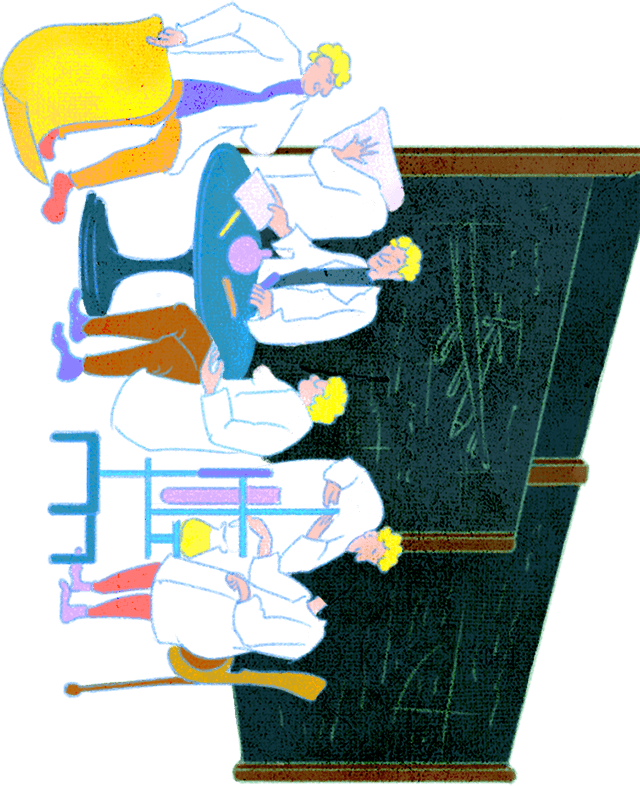
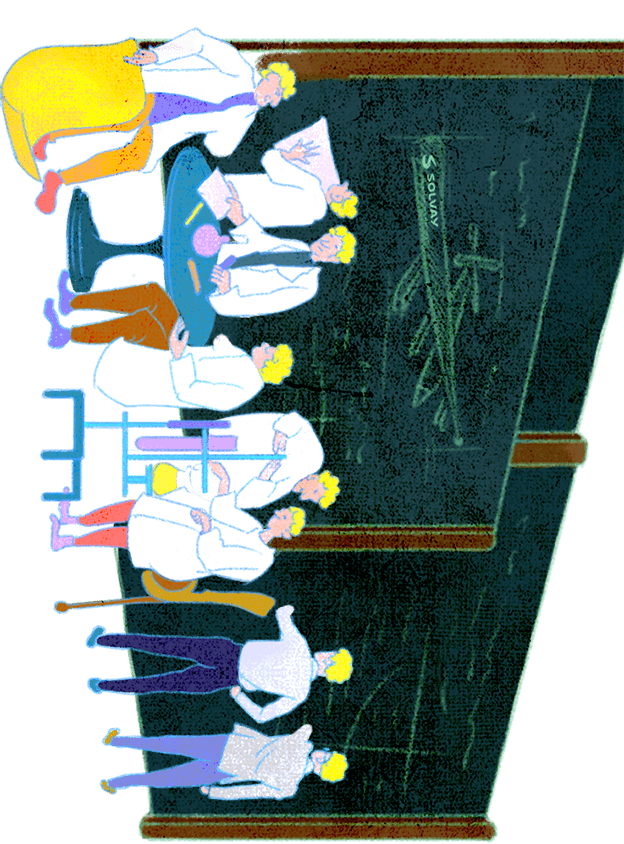
update scene 6

diff --git a/js/main.js b/js/main.js
@@ -45,8 +45,8 @@ var loaderAssets = [
   "scene-6-blackboard.png",
   "scene-6-hand-1.png",
   "scene-6-hand-2.png",
-  "scene-6-head-1.png",
-  "scene-6-head-2.png",
+  "scene-6-hand-3.png",
+  "scene-6-hand-4.png",
   "scene-6-photo.png",
   "scene-7-bg.jpg",
   "scene-7-building.png",
@@ -706,31 +706,31 @@ SOLWAY.Scene[5] = (function() {
   var scene,
     bg,
     blackboard,
-    hand_1,
-    hand_2,
-    head_1,
-    head_2,
     photo,
     hint,
     text_1,
-    text_2;
+    text_2,
+    hand_1,
+    hand_2,
+    hand_3,
+    hand_4;
 
   function init() {
     scene = createContainer({ x: 0, y: stagePosition(5) });
     bg = createSprite("scene-6-bg.jpg", { x: 0, y: 0 });
-    blackboard = createSprite("scene-6-blackboard.png", { x: 0, y: 545 });
-    hand_1 = createSprite("scene-6-hand-1.png", { x: 248, y: 648 });
-    hand_2 = createSprite("scene-6-hand-2.png", { x: 247, y: 880 });
-    head_1 = createSprite("scene-6-head-1.png", { x: 384, y: 726 });
-    head_2 = createSprite("scene-6-head-2.png", { x: 314, y: 1110 });
+    blackboard = createSprite("scene-6-blackboard.png", { x: 15, y: 487 });
+    hand_1 = createSprite("scene-6-hand-1.png", { x: 226, y: 487 + 114 });
+    hand_2 = createSprite("scene-6-hand-2.png", { x: 224, y: 487 + 309 });
+    hand_3 = createSprite("scene-6-hand-3.png", { x: 292, y: 487 + 592 });
+    hand_4 = createSprite("scene-6-hand-4.png", { x: 303, y: 487 + 673 });
     photo = createSprite("scene-6-photo.png", {
       x: 95,
-      y: 3,
+      y: -64,
       interactive: true
     });
-    hint = createHintContainer({ x: 323, y: 58 });
-    text_1 = createSprite("text-6-1.png", { x: 550, y: 68, alpha: 0 });
-    text_2 = createSprite("text-6-2.png", { x: 436, y: 757, alpha: 0 });
+    hint = createHintContainer({ x: 323, y: -9 });
+    text_1 = createSprite("text-6-1.png", { x: 550, y: 1, alpha: 0 });
+    text_2 = createSprite("text-6-2.png", { x: 26, y: 757, alpha: 0 });
 
     // reset state
     text_1.x -= 20;
@@ -741,12 +741,12 @@ SOLWAY.Scene[5] = (function() {
     hand_2.x += 0 * hand_2.width;
     hand_2.y += 0.5 * hand_2.height;
     hand_2.anchor.set(0, 0.5);
-    head_1.x += 1 / 2 * head_1.width;
-    head_1.y += 1 / 2 * head_1.height;
-    head_1.anchor.set(0.5, 0.5);
-    head_2.x += 0 * head_2.width;
-    head_2.y += 1 * head_2.height;
-    head_2.anchor.set(0, 1);
+    hand_3.x += 0 * hand_3.width;
+    hand_3.y += 17;
+    hand_3.pivot.set(0, 17);
+    hand_4.x += 10;
+    hand_4.y += 71;
+    hand_4.pivot.set(10, 71);
     // add sprite to container
     // add containers to scene
     scene.addChild(
@@ -755,8 +755,8 @@ SOLWAY.Scene[5] = (function() {
       blackboard,
       hand_1,
       hand_2,
-      head_1,
-      head_2,
+      hand_3,
+      hand_4,
       text_1,
       text_2,
       hint
@@ -768,16 +768,6 @@ SOLWAY.Scene[5] = (function() {
   }
 
   function anim() {
-    TweenMax.to(head_1, 1, {
-      rotation: 10 * Math.PI / 180,
-      repeat: -1,
-      yoyo: true
-    });
-    TweenMax.to(head_2, 1, {
-      rotation: -10 * Math.PI / 180,
-      repeat: -1,
-      yoyo: true
-    });
     TweenMax.to(hand_1, 0.5, {
       rotation: -20 * Math.PI / 180,
       repeat: -1,
@@ -787,6 +777,17 @@ SOLWAY.Scene[5] = (function() {
       rotation: -10 * Math.PI / 180,
       repeat: -1,
       yoyo: true
+    });
+    TweenMax.to(hand_3, 1, {
+      rotation: -10 * Math.PI / 180,
+      repeat: -1,
+      yoyo: true
+    });
+    TweenMax.to(hand_4, 2, {
+      rotation: 8 * Math.PI / 180,
+      repeat: -1,
+      yoyo: true,
+      ease: Linear.easeNone
     });
   }
 
